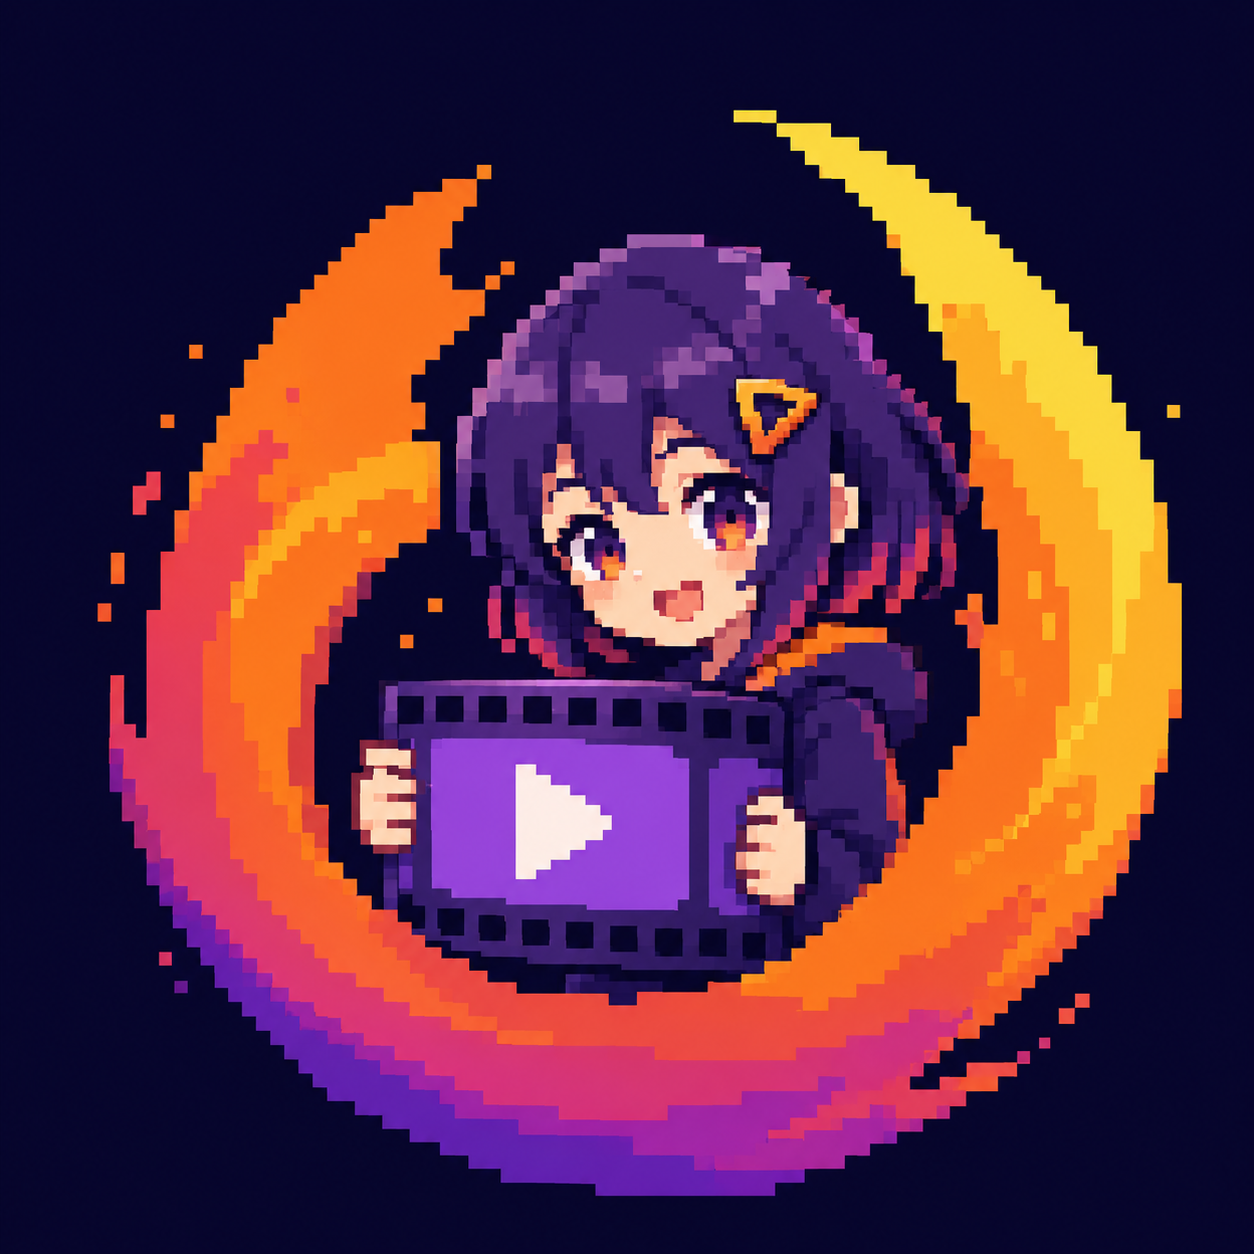
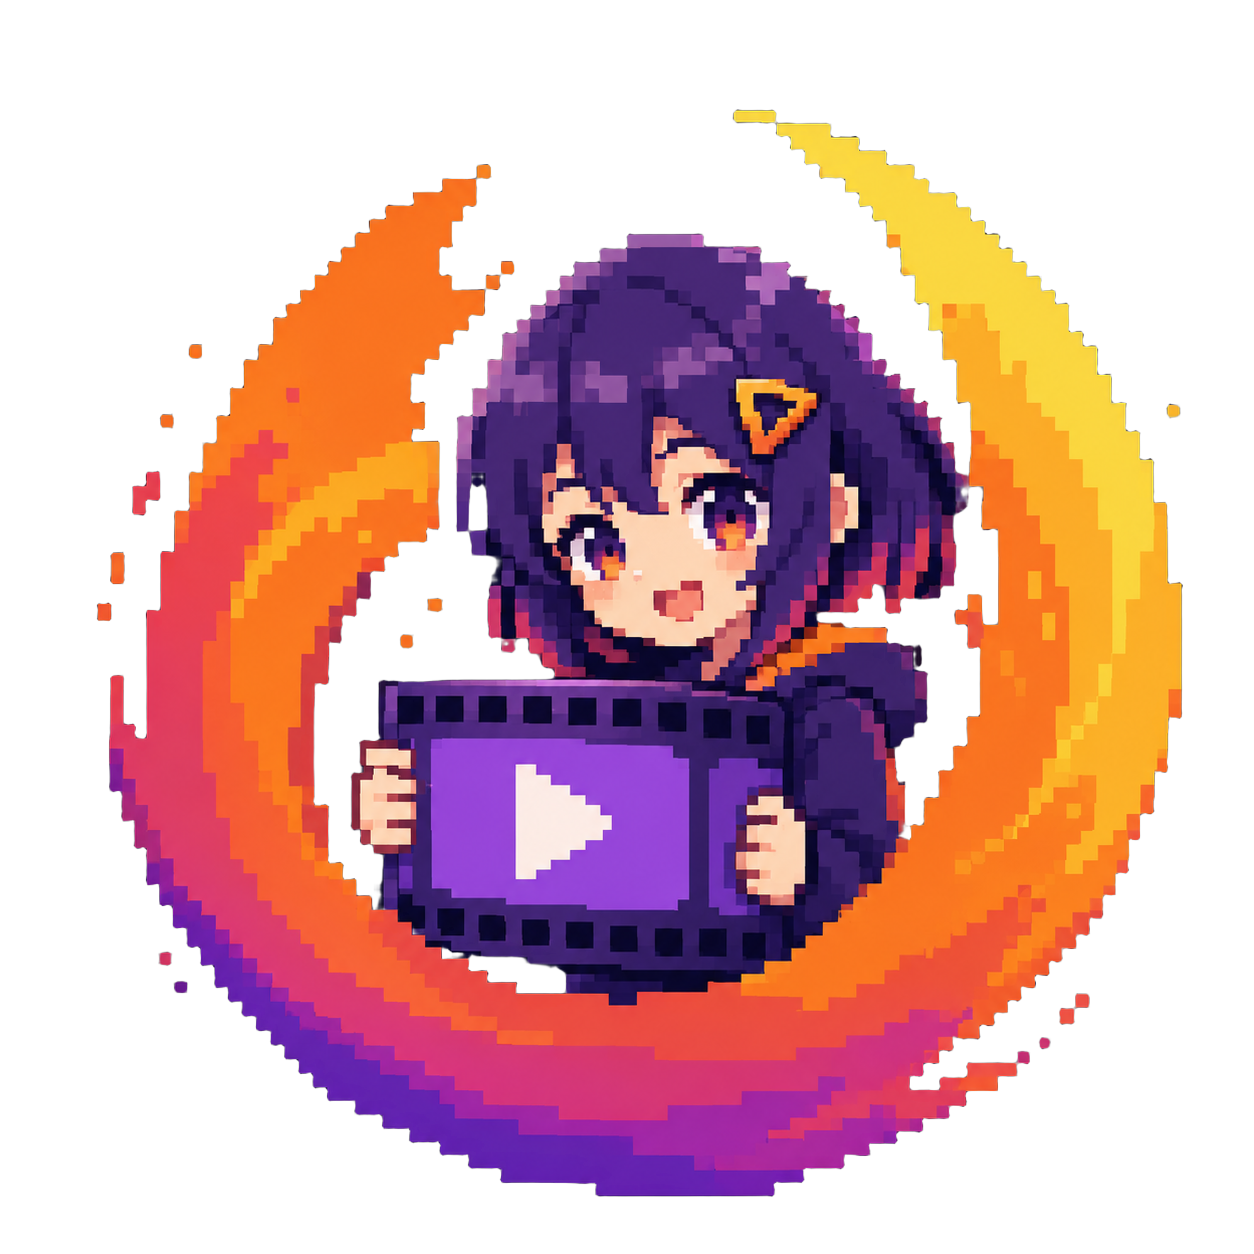
icondoc更新

diff --git a/src/electron/main.ts b/src/electron/main.ts
@@ -1,6 +1,7 @@
 import { app, BrowserWindow, ipcMain, dialog } from 'electron';
 import * as path from 'path';
 import express from 'express';
+import cors from 'cors';
 import { createServer } from 'http';
 import { Server } from 'socket.io';
 import flowsRouter, { setSocketIO } from '../api/flows';
@@ -54,6 +55,7 @@ function createWindow() {
 async function startServer() {
   const expressApp = express();
   expressApp.use(express.json());
+  expressApp.use(cors());
 
   const httpServer = createServer(expressApp);
   const io = new Server(httpServer, {

diff --git a/doc/Windows图标缓存清理.md b/doc/Windows图标缓存清理.md
@@ -1,0 +1,48 @@
+# Windows 图标缓存清理方法
+
+如果替换图标后，资源管理器中仍然显示旧图标，这是 Windows 图标缓存导致的，与程序本身无关。
+
+## 方法一：重启资源管理器（推荐，最简单）
+
+1. 打开任务管理器（Ctrl + Shift + Esc）
+2. 找到 "Windows 资源管理器" 进程
+3. 右键点击 → "重新启动"
+4. 查看 `release/` 目录中的 exe 文件图标是否已更新
+
+## 方法二：清理图标缓存文件
+
+1. 关闭所有文件夹窗口
+2. 打开命令提示符（管理员），依次执行：
+
+```cmd
+taskkill /f /im explorer.exe
+cd /d %userprofile%\AppData\Local
+del IconCache.db /a
+shutdown /r /t 0
+```
+
+3. 系统会自动重启，重启后图标缓存即被重建
+
+## 方法三：修改文件夹视图（不需要重启）
+
+1. 打开 `release/` 文件夹
+2. 右键空白处 → "查看"
+3. 切换到 "详细信息"（或切换到其他视图）
+4. 再切换回 "大图标" 或 "超大图标"
+5. 有时这会强制刷新图标显示
+
+## 验证图标是否已更新
+
+可以通过以下方式确认新图标已正确打包：
+
+1. **查看 ICO 文件**：用图片查看器打开 `build/icons/icon.ico`，确认内容已更新
+2. **查看 EXE 属性**：右键 `release/win-unpacked/*.exe` → "属性" → "详细信息"，查看图标信息
+3. **用 Resource Hacker**（可选）：打开 exe 文件查看内置的图标资源
+
+## 预防措施
+
+为避免每次都要清理缓存：
+
+- 使用不同的文件名测试（如重命名 Setup 文件）
+- 在不同的文件夹中测试
+- 使用虚拟机或干净的 Windows 环境测试
